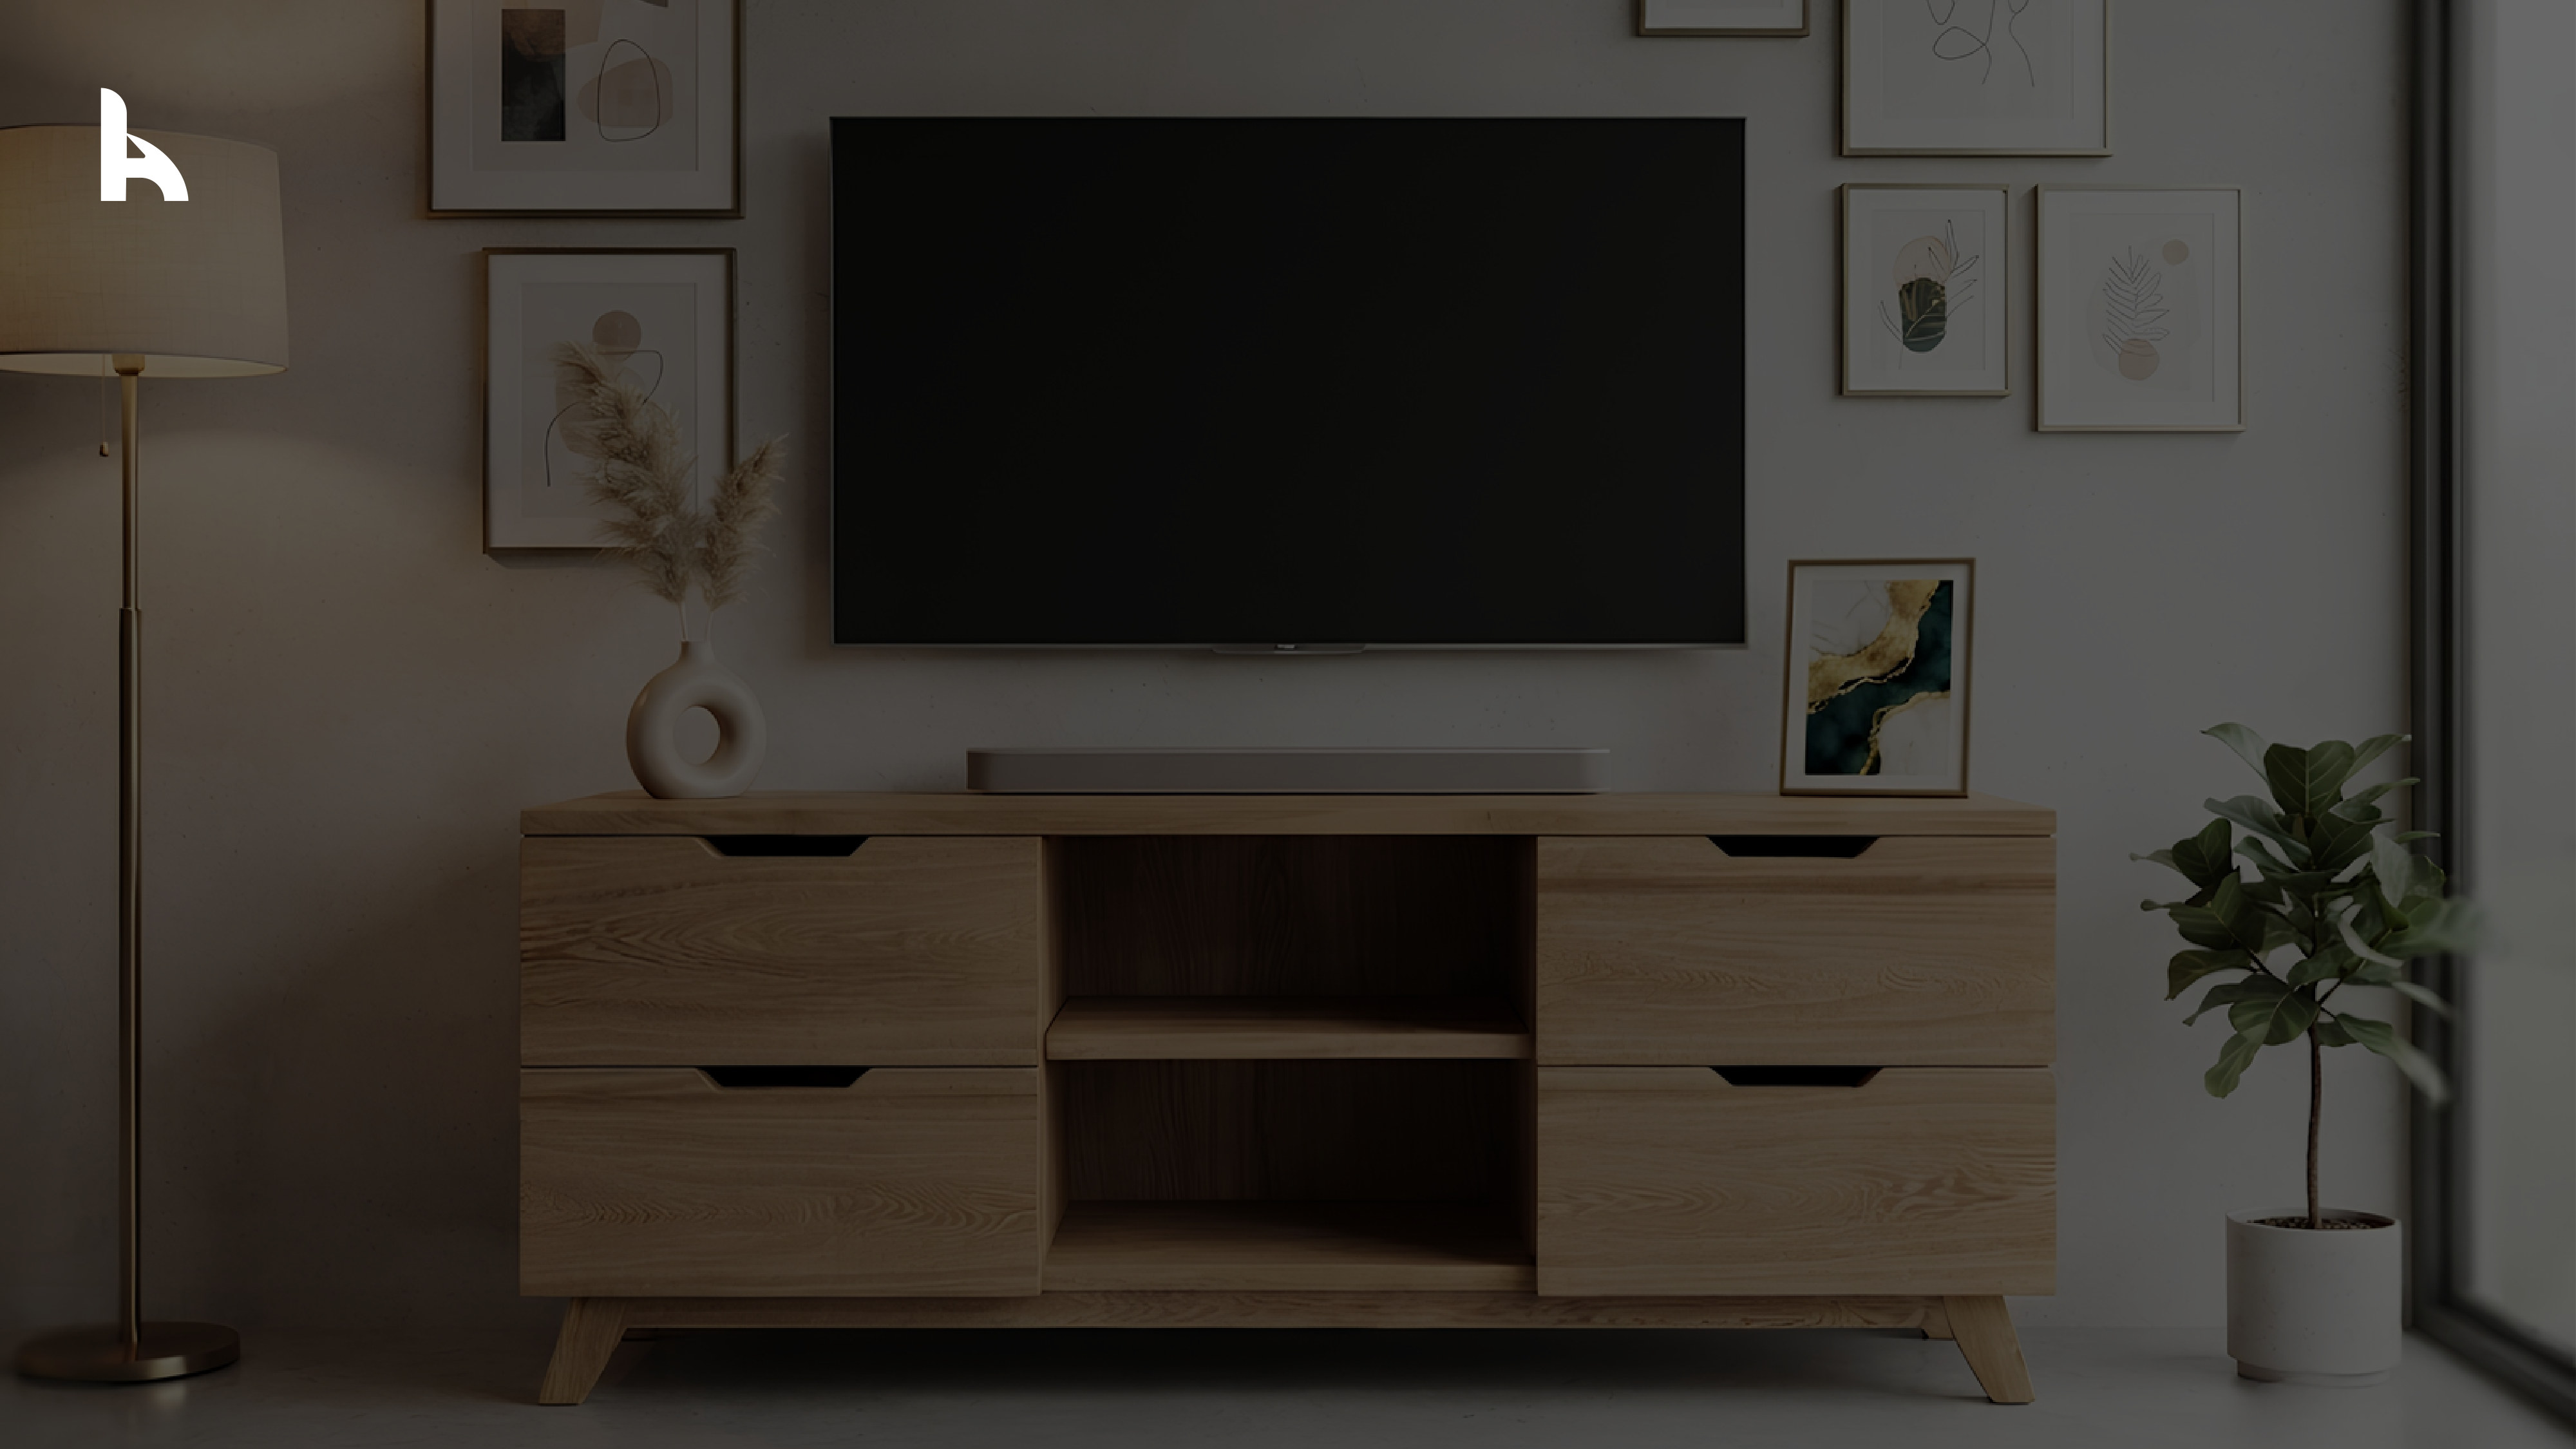
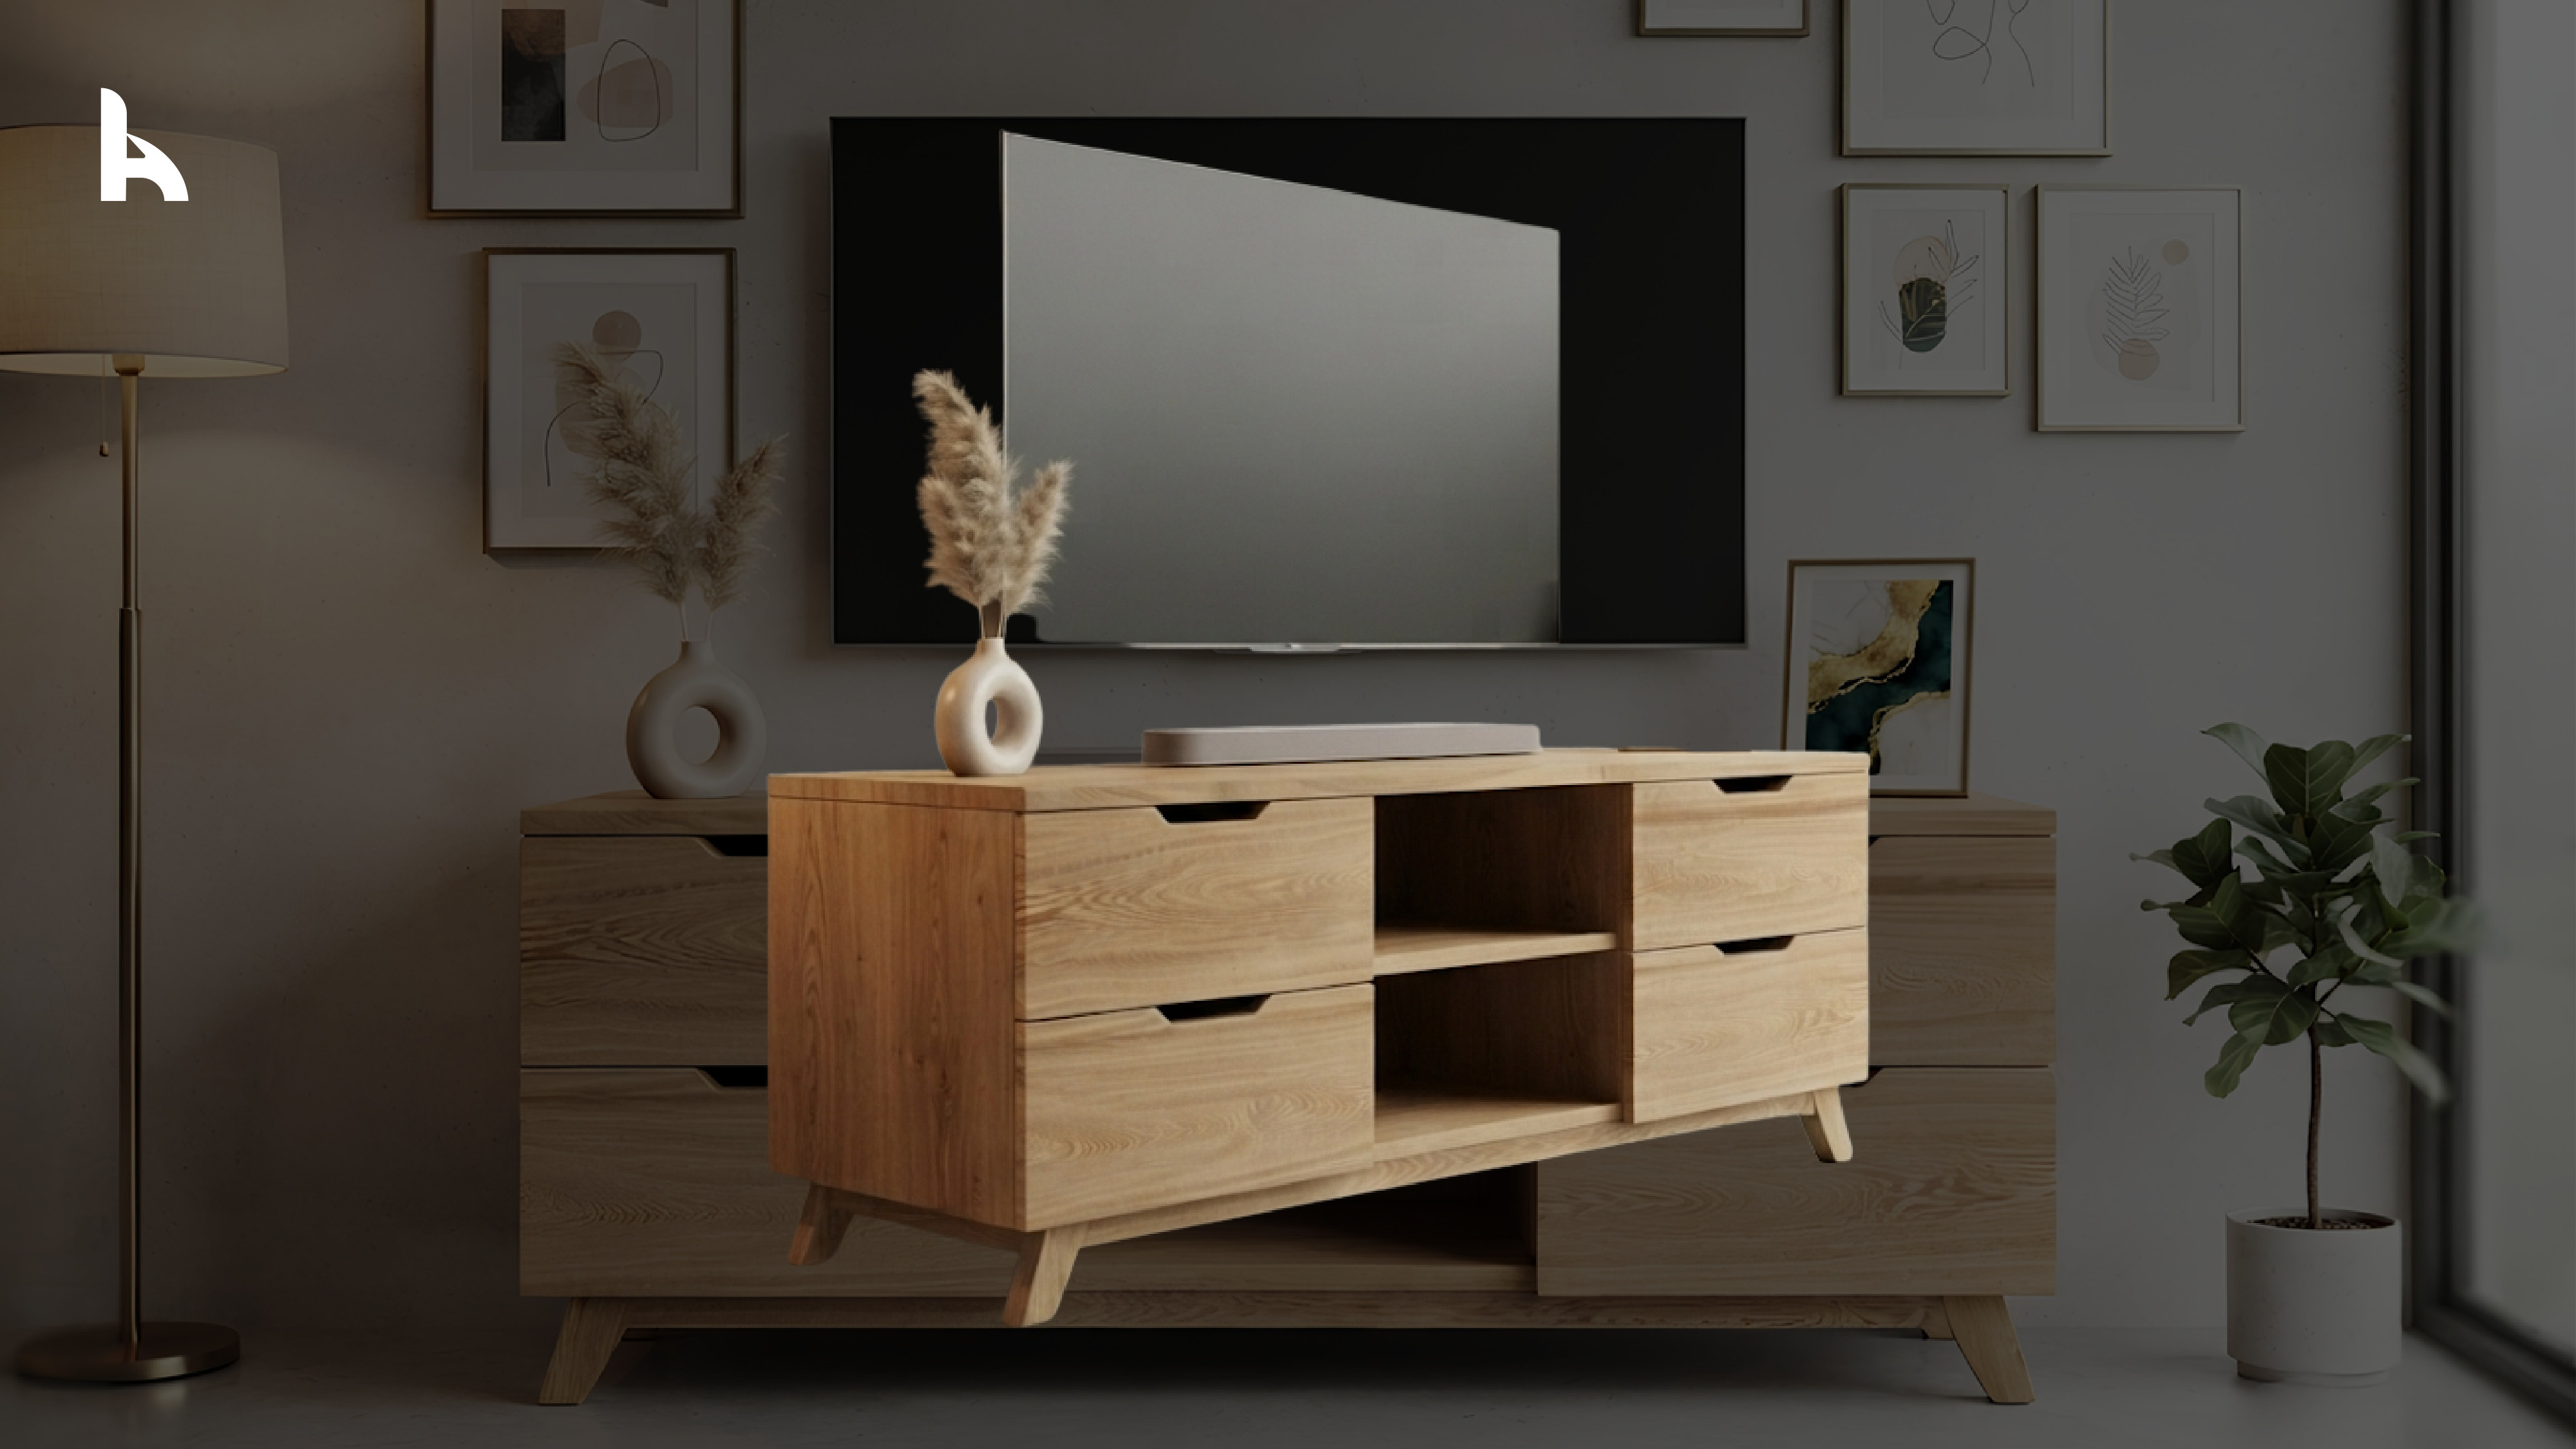
Actualizar diseño de Auxiliares·Salas y mejorar legibilidad del menú
El PDF de auxiliares_salas tuvo ajustes de diseño en 2 páginas (misma
cantidad de páginas). Además se sube el tamaño de letra del desplegable
de Auxiliares y se cambia el color a contraste completo (antes usaba
el mismo tono apagado que las pestañas inactivas, muy poco legible);
las opciones "Próximamente" se mantienen atenuadas mostrando que aún
no están disponibles.

Changed region(s): [[0.2812, 0.0933, 0.75, 0.9333]]

diff --git a/index.html b/index.html
@@ -154,22 +154,22 @@
     }
     .aux-dropdown.open { display: flex; }
     .aux-item {
-      padding: 7px 16px;
+      padding: 9px 18px;
       border-radius: 10px;
       border: none;
       background: transparent;
-      color: var(--chrome-muted);
+      color: var(--chrome-fg);
       font-family: inherit;
-      font-size: 0.56rem;
-      letter-spacing: 0.14em;
+      font-size: 0.78rem;
+      letter-spacing: 0.06em;
       text-align: left;
       cursor: pointer;
       transition: all 0.2s;
       white-space: nowrap;
     }
-    .aux-item:hover:not(.pronto) { background: var(--chrome-hover); color: var(--chrome-fg); }
+    .aux-item:hover:not(.pronto) { background: var(--chrome-hover); }
     .aux-item.active { background: var(--tab-on); color: var(--tab-on-fg); }
-    .aux-item.pronto { opacity: 0.38; cursor: default; }
+    .aux-item.pronto { opacity: 0.5; cursor: default; }
 
     /* ── RESPONSIVE ── */
     @media (max-width: 500px) {